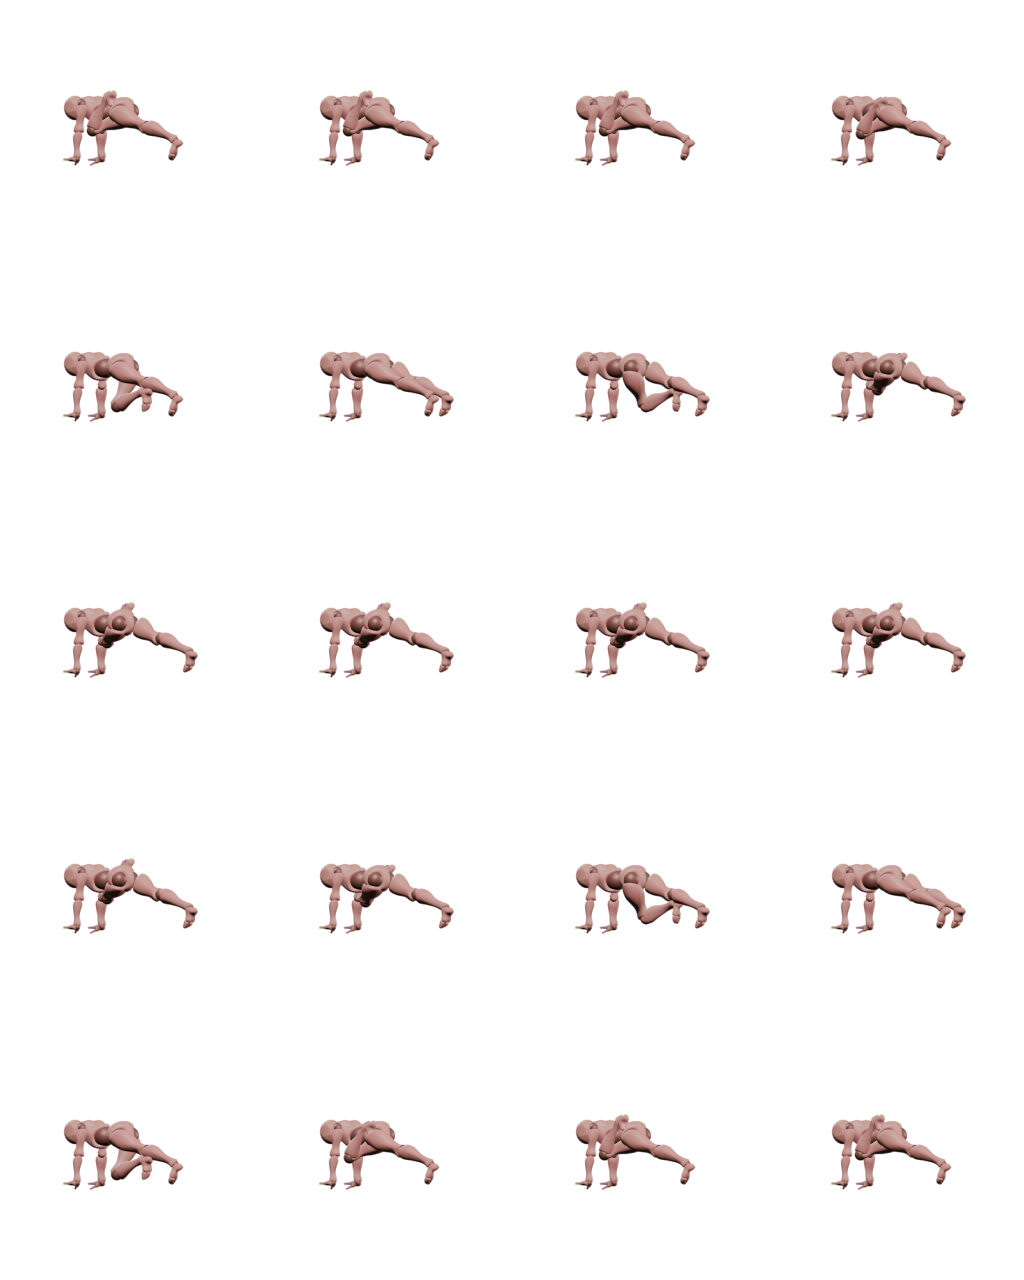
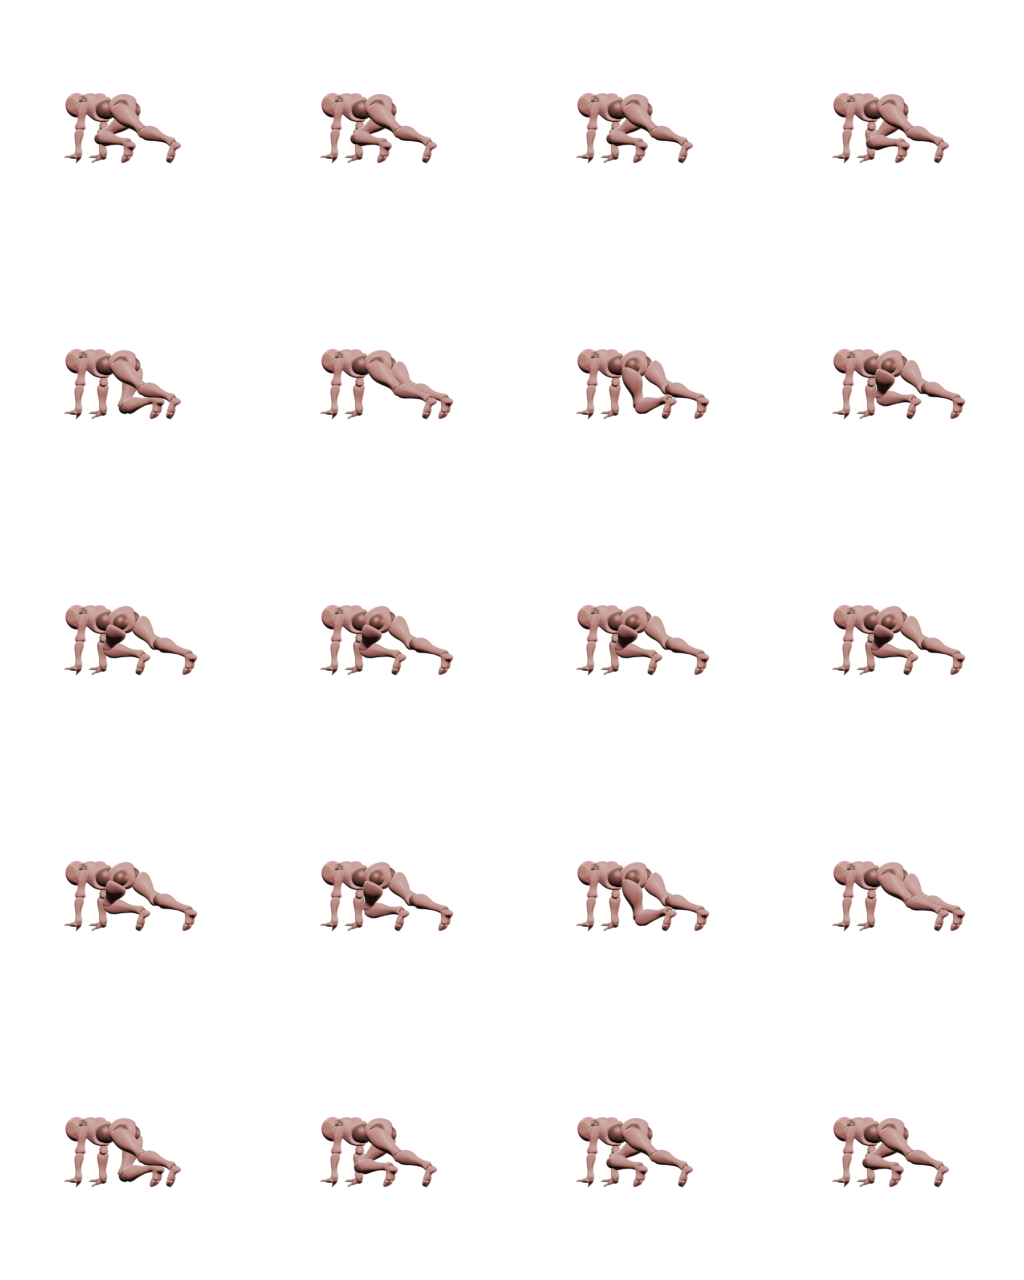
La saccade venait des lecteurs, pas des rendus
## Deux animations CSS qui dérivaient l'une par rapport à l'autre

La page de revue fait glisser la fenêtre colonne par colonne, puis ligne par
ligne. Les deux animations doivent avancer du même pas : une durée CSS
s'écrit en millisecondes entières, l'arrondi du pas des colonnes est donc
inévitable, et dès qu'il arrondit, `pas × lignes` ne retombe plus sur la
durée déclarée. Les périodes diffèrent — 94 ms contre 93,875 pour une montée
de genoux — et rien ne les remet en phase.

Sur les vingt-huit planches, quatre seulement ne tombaient pas juste : la
fente (+1 ms par tour), le saut squaté (-4), la montée de genoux (+1) et la
corde à sauter (-1). Ce sont exactement celles qu'on a signalées, et cela
explique le « bien au début, puis saccadé » : il faut des dizaines de tours
pour qu'un millième de seconde devienne un cran.

Mesuré au navigateur sur la vraie page, en lisant la case affichée au même
instant de quatre-vingts tours consécutifs : huit cases différentes avec
l'ancien calage, une seule avec le nouveau. Le tour se déduit désormais du
pas des colonnes, jamais l'inverse, et les deux sont en phase par
construction.

## Le plafond de cadence prélevait des images au hasard

L'app a sa propre version de la même faute. Plafonner le battement en lisant
quand même l'image dans l'horloge ne suffit pas : une montée de genoux fait
trente-deux images en 751 ms, le plafond bat toutes les 42 ms et n'en
prélève donc que dix-huit — lesquelles dépend de la gigue du minuteur, et
[…]

diff --git a/mobile/src/composants/Demonstration.tsx b/mobile/src/composants/Demonstration.tsx
@@ -74,15 +74,32 @@ function PlancheAnimee({ planche, taille }: { planche: Planche; taille: number }
     if (reduit) return;
 
     debut.current = Date.now();
-    // Un battement par image de planche, sans dépasser le plafond : c'est la
-    // planche qui décide de son rythme, pas une constante.
-    const intervalle = Math.max(1000 / CADENCE_MAX, duree / planche.images);
+
+    // Combien d'images le plafond laisse passer sur un tour, et de combien il
+    // faut donc avancer à chaque battement.
+    //
+    // Plafonner le **battement** en lisant quand même l'image dans l'horloge ne
+    // suffisait pas, et donnait sa propre saccade. Une montée de genoux fait
+    // trente-deux images en 751 ms, soit une image toutes les 23 ms ; le
+    // plafond bat toutes les 42 ms et n'en prélève donc que dix-huit. Lesquelles
+    // dépend de la gigue du minuteur, et change d'un tour à l'autre : le geste
+    // avance de une image, puis de deux, puis de une.
+    //
+    // On choisit donc un pas **entier** — une image sur deux, sur quatre — et
+    // l'on montre toujours les mêmes, régulièrement espacées. Le tour garde sa
+    // durée vraie, la cadence reste sous le plafond, et le geste ne bronche
+    // plus.
+    const tenables = Math.max(1, Math.floor(duree / (1000 / CADENCE_MAX)));
+    const pas = Math.max(1, Math.ceil(planche.images / tenables));
+    const montrees = Math.ceil(planche.images / pas);
+
     const battement = setInterval(() => {
       // Depuis un instant absolu, jamais en incrémentant : un intervalle dérive,
       // et la répétition finirait plus lente que la durée annoncée.
       const ecoule = (Date.now() - debut.current) % duree;
-      setIndex(Math.floor((ecoule / duree) * planche.images) % planche.images);
-    }, intervalle);
+      const rang = Math.floor((ecoule / duree) * montrees) % montrees;
+      setIndex((rang * pas) % planche.images);
+    }, duree / montrees);
 
     return () => clearInterval(battement);
   }, [planche.images, duree, reduit]);

diff --git a/scripts/gestes_generes.py b/scripts/gestes_generes.py
@@ -486,59 +486,6 @@ def JAMBE_LEVEE(cote):
     }
 
 
-def grimpeur_croise(genou):
-    """Une pose de mountain climber **croisé** : le genou traverse le corps.
-
-    Écrite en directions et non en appuis, contrairement au grimpeur droit, et
-    c'est ce qui la corrige. Un appui vise la **cheville** : déplacer sa cible
-    de l'autre côté du corps y amenait le pied sans y amener le genou, et la
-    cinématique inverse résolvait le reste comme elle pouvait — tibia tordu,
-    genou resté du mauvais côté. Or ce qui croise, dans cet exercice, c'est le
-    genou.
-
-    On décrit donc les deux os : la cuisse part de la hanche vers le coude
-    **opposé** — en avant, en travers, et vers le sol — et le tibia se replie
-    naturellement derrière elle. Genou gauche vers coude droit, genou droit
-    vers coude gauche.
-
-    Repère du corps à plat ventre : +Y vers la tête, -Z vers le sol, -X à
-    gauche du personnage. Les coudes sont posés à x = ∓0,18.
-    """
-    couche = {
-        _os("LeftArm"): Appui((-0.18, 0.42, 0.06), (0, 0.30, 0.95)),
-        _os("RightArm"): Appui((0.18, 0.42, 0.06), (0, 0.30, 0.95)),
-        _os("LeftHand"): APlat((0, 1, 0)),
-        _os("RightHand"): APlat((0, 1, 0)),
-        _os("LeftFoot"): (0, 0, -1),
-        _os("RightFoot"): (0, 0, -1),
-    }
-    for cote, lettre, signe in (("Left", "G", -1), ("Right", "D", +1)):
-        if lettre == genou:
-            # La cuisse traverse : elle part vers l'avant et vers **l'autre
-            # côté**. Le signe est inversé, c'est tout le geste.
-            couche[_os(f"{cote}UpLeg")] = (-signe * 0.42, +0.80, -0.43)
-            # Le tibia part vers l'arrière en **remontant**, et le pied est en
-            # l'air. C'est ce que montre la vidéo : la jambe qui travaille ne
-            # touche rien pendant qu'elle est ramenée, le talon passe plus haut
-            # que le genou.
-            #
-            # Le faire redescendre était une faute franche et mesurable : tibia
-            # plongeant de vingt-sept degrés, le pied traversait le plancher de
-            # dix-huit centimètres. `auditer-gestes.py` l'a refusé.
-            couche[_os(f"{cote}Leg")] = (-signe * 0.05, -0.58, +0.81)
-            # Le pied de la jambe levée ne pousse sur rien : il pend dans le
-            # prolongement du tibia au lieu de garder les orteils recourbés de
-            # l'appui.
-            couche[_os(f"{cote}Foot")] = (0, -0.55, -0.84)
-        else:
-            # Jambe tendue en arrière, vingt degrés sous l'horizontale. C'est
-            # la mesure de la vidéo — le segment bassin→cheville y fait 22°
-            # avec la ligne du sol — et non plus l'estimation à vingt.
-            couche[_os(f"{cote}UpLeg")] = (signe * 0.04, -0.938, -0.344)
-            couche[_os(f"{cote}Leg")] = (signe * 0.02, -0.947, -0.320)
-    return couche
-
-
 def grimpeur(genou, croise=False):
     """Une pose de mountain climber : quel genou est ramené, ou aucun.
 
@@ -594,10 +541,19 @@ def grimpeur(genou, croise=False):
             # Croisé, il traverse l'axe du corps pour aller chercher le coude
             # opposé — d'où le signe inversé. C'est ce qui distingue les deux
             # exercices du catalogue, et de trois-quarts ça se voit.
-            x = (-signe * 0.16) if croise else (signe * 0.14)
-            couche[_os(f"{cote}UpLeg")] = Appui(
-                (x, -0.22, 0.20), (0, 0.35, -0.94)
-            )
+            # Croisé, la cheville passe de l'autre côté de l'axe — mais de peu.
+            # Ce n'est pas un autre exercice, c'est le même avec quelques
+            # degrés de plus : quatorze centimètres du côté du genou pour le
+            # droit, dix de l'autre côté pour le croisé.
+            #
+            # Le **pôle** compte autant que la cible, et c'est ce qui manquait
+            # à la première version. Un appui ne place que la cheville ; c'est
+            # le pôle qui décide de quel côté le genou ressort. Laissé dans
+            # l'axe, on obtenait un pied passé de l'autre côté et un genou resté
+            # du sien — un tibia tordu, pas un mouvement croisé.
+            x = (-signe * 0.10) if croise else (signe * 0.14)
+            pole = (-signe * 0.45, 0.30, -0.84) if croise else (0, 0.35, -0.94)
+            couche[_os(f"{cote}UpLeg")] = Appui((x, -0.22, 0.20), pole)
         else:
             # Jambe tendue en arrière, cheville juste au-dessus du sol. La
             # hanche est à 53 cm et la jambe en fait 96 : la cheville, posée à
@@ -1582,10 +1538,26 @@ GESTES = {
         "symetrique": False,
         "hauteur": HAUTEUR_PLANCHE,
         "pauses": [0.22, 0.00, 0.22],
+        # Une torsion du bassin, dix degrés de chaque côté.
+        #
+        # Sans elle, la jambe partait de travers d'une hanche restée carrée, et
+        # l'on voyait une jambe tordue plutôt qu'un corps qui tourne. Personne
+        # ne ramène le genou vers le coude opposé sans que le bassin
+        # accompagne. Dix degrés suffisent : c'est un mouvement croisé, pas un
+        # russian twist.
+        "torsion": [+10.0, 0.0, -10.0],
+        # Le **même** grimpeur que l'exercice droit, avec quelques degrés de
+        # plus. Il avait droit à une pose écrite à part, en directions, et
+        # c'était une erreur d'analyse : on avait conclu qu'un appui ne pouvait
+        # pas croiser parce qu'il vise la cheville. Il le peut très bien — il
+        # faut simplement dire au **pôle** de quel côté sortir le genou.
+        # Écrite à part, la pose divergeait de celle du grimpeur droit à chaque
+        # correction de celui-ci, et c'est ainsi qu'elle a fini par ne plus
+        # ressembler à l'exercice.
         "cles": [
-            _pose(PLANCHE_DROITE, grimpeur_croise("D")),
-            _pose(PLANCHE_DROITE, grimpeur_croise(None)),
-            _pose(PLANCHE_DROITE, grimpeur_croise("G")),
+            _pose(PLANCHE_DROITE, grimpeur("D", croise=True)),
+            _pose(PLANCHE_DROITE, grimpeur(None, croise=True)),
+            _pose(PLANCHE_DROITE, grimpeur("G", croise=True)),
         ],
     },
     # Planche basse, relevée sur une vidéo de démonstration. Trois temps :
@@ -2898,6 +2870,46 @@ def _vecteur(triplet):
     return Vector(triplet)
 
 
+def _tordre(armature, assiette, axe_du_corps, degres, contexte):
+    """Fait pivoter le bassin autour de l'axe long du corps.
+
+    C'est ce qui manque à un mouvement croisé pour être naturel. Personne ne
+    ramène le genou vers le coude opposé en gardant les hanches carrées : le
+    bassin accompagne, et sans lui la jambe part de travers d'une hanche qui,
+    elle, ne bouge pas — on voit une jambe tordue plutôt qu'un corps qui tourne.
+
+    L'axe est celui de l'assise, c'est-à-dire la direction bassin→tête : à plat
+    ventre elle vaut +Y, et tourner autour d'elle est exactement une torsion.
+
+    Le bassin **seul** tourne, et c'est voulu. Le tronc est visé par des
+    directions du monde et les bras par des appuis, eux aussi dans le monde :
+    les uns comme les autres retrouvent leur place après la rotation. Seules
+    les racines des jambes suivent, ce qui est la définition d'une torsion de
+    hanches.
+
+    On repart de `assiette` — l'orientation que l'assise a donnée — et jamais de
+    l'orientation courante : composer une rotation sur la précédente à chaque
+    image ferait visser le corps d'un bout à l'autre du tour.
+    """
+    import math
+
+    from mathutils import Matrix, Vector
+
+    if not degres:
+        return
+    bassin = armature.pose.bones[BASSIN]
+    # L'axe se dit dans le monde et la matrice du bassin vit dans l'armature :
+    # Mixamo importe le squelette tourné d'un quart de tour, et tourner autour
+    # de l'axe du monde sans le convertir vrillerait le corps de travers.
+    axe = (
+        armature.matrix_world.inverted().to_3x3() @ Vector(axe_du_corps)
+    ).normalized()
+    remise = (Matrix.Rotation(math.radians(degres), 3, axe) @ assiette).to_4x4()
+    remise.translation = bassin.matrix.translation
+    bassin.matrix = remise
+    contexte.view_layer.update()
+
+
 def _poser_bassin(armature, ancre, decalage, contexte):
     """Place le bassin à sa position de repos, décalée de `decalage` (monde)."""
     from mathutils import Vector
@@ -3116,6 +3128,19 @@ def appliquer(armature, nom, images, contexte):
         monte = Vector((0, 0, hauteur - (monde @ ancre).z))
         ancre = ancre + monde.inverted().to_3x3() @ monte
 
+    # La torsion du bassin, pose par pose, en degrés autour de l'axe long du
+    # corps. On la fait passer par `_decalages` — le seul intéressant des trois
+    # nombres est le premier — pour qu'elle suive exactement le même calendrier
+    # que les poses : une torsion qui avancerait à son propre rythme tournerait
+    # les hanches pendant que les jambes tiennent leur position.
+    torsions = _decalages(
+        None if geste.get("torsion") is None
+        else [(angle, 0.0, 0.0) for angle in geste["torsion"]],
+        len(geste["cles"]),
+        images,
+        horaire,
+    )
+
     # Où l'appui planté a touché à la première image. Il n'y retournera pas
     # tout seul : c'est le corps qu'on déplacera pour qu'il y reste.
     repere_plante = None
@@ -3132,6 +3157,10 @@ def appliquer(armature, nom, images, contexte):
             remise.translation = bassin.matrix.translation
             bassin.matrix = remise
             contexte.view_layer.update()
+        if assise and torsions[numero - 1] is not None:
+            _tordre(
+                armature, assiette, assise[0], torsions[numero - 1][0], contexte
+            )
         if assise:
             bassin.rotation_mode = "QUATERNION"
             bassin.keyframe_insert("rotation_quaternion", frame=numero)

diff --git a/scripts/revue-planches.py b/scripts/revue-planches.py
@@ -203,7 +203,27 @@ def carte(slug, planche, exos, vue, origine, mesure, orphelin):
     # `duree × colonnes / images` — et non `duree / colonnes`, qui est la même
     # chose seulement quand la planche est carrée. Sur une grille de quatre
     # colonnes et vingt images, l'écart est de 25 %.
-    pas_colonne = round(planche["duree"] * colonnes / images)
+    pas_colonne = max(1, round(planche["duree"] * colonnes / images))
+    # Le tour se déduit du pas, et **jamais l'inverse**.
+    #
+    # Une durée CSS s'écrit en millisecondes entières : `round` est donc
+    # inévitable sur le pas des colonnes, et dès qu'il arrondit, `pas × lignes`
+    # ne retombe plus sur la durée déclarée. Les deux animations ont alors des
+    # périodes légèrement différentes — 94 ms contre 93,875 pour une montée de
+    # genoux — et rien ne les remet en phase : elles dérivent d'un tour à
+    # l'autre jusqu'à ce que la fenêtre change de colonne au milieu d'une
+    # rangée. La planche joue alors ses images dans le désordre.
+    #
+    # C'est exactement ce qui se voyait : « la montée de genoux fonctionne bien
+    # au début, mais finit par saccader ». Sur les vingt-huit planches, quatre
+    # seulement ne tombaient pas juste — la fente (+1 ms par tour), le saut
+    # squaté (-4), la montée de genoux (+1) et la corde à sauter (-1) — et ce
+    # sont précisément celles qu'on a signalées.
+    #
+    # En prenant le pas comme référence, les deux animations sont en phase par
+    # construction et le restent indéfiniment. Le tour s'écarte au pire de
+    # quelques millisecondes de la durée déclarée, ce qui ne se voit pas.
+    tour = pas_colonne * lignes
     cote = 128
     liste = "".join(f"<li>{nom}</li>" for nom in sorted(exos)) or (
         '<li class="orphelin">aucun exercice ne l\'utilise</li>'
@@ -228,7 +248,7 @@ def carte(slug, planche, exos, vue, origine, mesure, orphelin):
               background-size:{cote * colonnes}px {cote * lignes}px;
               --fx:-{cote * colonnes}px; --fy:-{cote * lignes}px;
               animation:colonnes {pas_colonne}ms steps({colonnes}) infinite,
-                        rangees {planche['duree']}ms steps({lignes}) infinite;"></div>
+                        rangees {tour}ms steps({lignes}) infinite;"></div>
         </div>
         <div class="corps">
           <h3>{slug}</h3>
